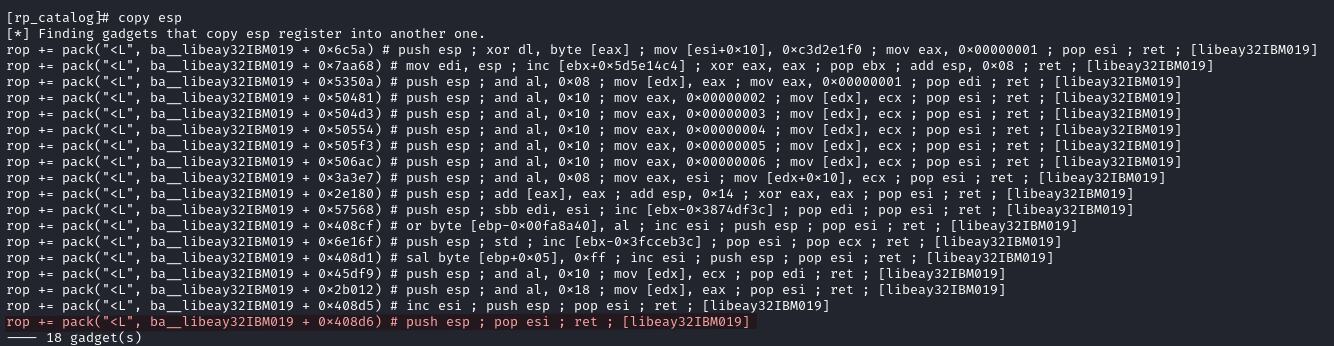
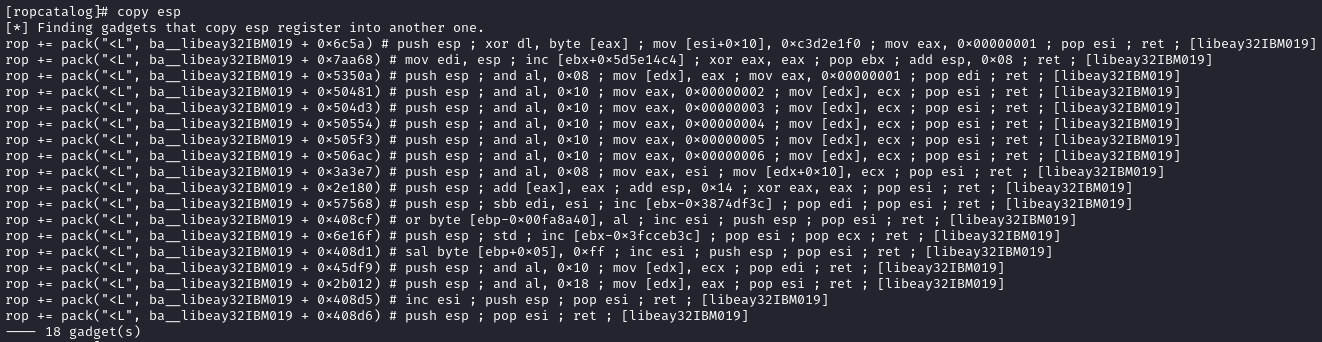
Update

Changed region(s): [[0.0, 0.0292, 1.0, 1.0]]

diff --git a/ropcatalog/console.py b/ropcatalog/console.py
@@ -12,8 +12,8 @@ from prompt_toolkit.history import ThreadedHistory, InMemoryHistory
 from prompt_toolkit.cursor_shapes import CursorShape
 
 # Local library imports
-from rp_catalog.core import gadgets
-from rp_catalog.core import utils
+from ropcatalog.core import gadgets
+from ropcatalog.core import utils
 
 
 class Console:
@@ -63,6 +63,7 @@ class Console:
 
         if args is not None and args.endswith(" /n"):
             args = args.replace(" /n", "")
+            print("[i] Filtering disabled")
             filtering = False
 
         results = self._commands[cmd](args) or []
@@ -91,6 +92,9 @@ class Console:
         print("Available commands:")
         for cmd, func in self._commands.items():
             print(f"  {cmd:<5} - {func.__doc__}")
+
+        print("\nModifiers:")
+        print("  /n   - Disables filtering for bad operations (e.g., jump esp /n).")
 
     def exact_search(self, instructions: str) -> list:
         """Exact search for gadgets (e.g., ? pop eax ; ret)"""
@@ -353,7 +357,8 @@ class Console:
         print()
         while True:
             try:
-                command = session.prompt("[rp_catalog]# ").strip()
+                command = session.prompt("[ropcatalog]# ").strip() or "help"
+
                 results = self.execute(command)
 
                 if results:

diff --git a/ropcatalog/__main__.py b/ropcatalog/__main__.py
@@ -1,7 +1,7 @@
 #!/usr/bin/env python3
 
 # Local library imports
-from rp_catalog import console
+from ropcatalog import console
 
 
 def main() -> None:

diff --git a/README.md b/README.md
@@ -1,5 +1,5 @@
 
-`rp_catalog` is a Python tool designed for parsing and analyzing ROP (Return-Oriented Programming) gadgets extracted from [rp++](https://github.com/0vercl0k/rp) output files. It helps identify, classify, and filter useful ROP gadgets with a primary focus on the x86 architecture.
+`ropcatalog` is a Python tool designed for parsing and analyzing ROP (Return-Oriented Programming) gadgets extracted from [rp++](https://github.com/0vercl0k/rp) output files. It helps identify, classify, and filter useful ROP gadgets with a primary focus on the x86 architecture.
 
 It was built during the [EXP-301 course](https://www.offsec.com/courses/exp-301/), which focuses on exploit development. The tool is specifically tailored and designed for working with x86 ROP chains.
 
@@ -7,21 +7,21 @@ It was built during the [EXP-301 course](https://www.offsec.com/courses/exp-301/
 Designed for simplicity:
 
 ```shell
-pipx install 'git+https://github.com/n3rada/rp_catalog.git'
+pipx install 'git+https://github.com/n3rada/ropcatalog.git'
 ```
 
 Or, without dependency conflicts:
 ```shell
-pip install 'rp_catalog@git+https://github.com/n3rada/rp_catalog.git'
+pip install 'ropcatalog@git+https://github.com/n3rada/ropcatalog.git'
 ```
 
 Then, you can directly use it by calling its name
 
 ```shell
-rp_catalog ~/dump/libeay32IBM019.txt
+ropcatalog ~/dump/libeay32IBM019.txt
 ```
 
-## Examples
+## Usage Examples
 
 Generate the output with `rp++` as follows:
 ```shell
@@ -29,7 +29,7 @@ Generate the output with `rp++` as follows:
 ```
 Then, open your catalog with ASLR considerations (`--offset`) and output unique (`-u`) addresses in a copy-pastable Python format (`-p`):
 ```shell
-rp_catalog ~/dump/libeay32IBM019.txt -b "\x00\x09\x0a\x0b\x0c\x0d\x20" -u -p -o
+ropcatalog ~/dump/libeay32IBM019.txt -b "\x00\x09\x0a\x0b\x0c\x0d\x20" -u -p -o
 ```
 
 ```txt
@@ -44,15 +44,42 @@ rp_catalog ~/dump/libeay32IBM019.txt -b "\x00\x09\x0a\x0b\x0c\x0d\x20" -u -p -o
 [+] Total of 57700 gadgets loaded
 [+] Filtered to 24974 unique gadgets based on instructions.
 
-[catalog]#
+[ropcatalog]#
+```
+
+If you forgot how to browse your own catalog, use `help`:
+```shell
+[ropcatalog]# help
+Available commands:
+  exit  - Exit
+  clear - Clear the terminal
+  list  - List all gadgets
+  help  - None
+  ?     - Exact search for gadgets (e.g., ? pop eax ; ret)
+  /     - Partial search for gadgets (e.g., / pop)
+  copy  - This method finds gadgets that copy the value of a register (e.g., eax) to another register with modifcation of copied register allowed.
+  save  - This method finds gadgets that copy the value of a register (e.g., eax) to another register without modifying either register afterward.
+  inc   - Find gadgets that increment a register (e.g., inc eax)
+  dec   - Find gadgets that decrement a register (e.g., dec eax)
+  deref - Find gadgets that dereference a register (e.g., mov eax, [eax])
+  re    - Search for gadgets using a regular expression pattern (e.g., re mov eax, .*)
+  swap  - Find gadgets that swap given register with any other register (e.g., xchg eax, <reg>)
+  zero  - Find gadgets that zero the given register
+  ppr   - Find gadgets with pop-pop-ret sequences (e.g., pop eax ; pop ebx ; ret)
+  jump  - Find jump-related gadgets (e.g., jmp esp, call esp, jmp [esp+0x10], etc.)
+  pop   - This method finds gadgets that load a value from the stack into a specified register, typically through the pop instruction.
+
+Modifiers:
+  /n   - Disables filtering for bad operations (e.g., jump esp /n).
+
 ```
 
 Now, you can search for any gadget that copies the stack pointer (`ESP`) register to another register:
 ![copy_esp_ASLR](./images/copy_esp_ASLR.png)
 
 
-Without offset considerations, you can search inside your module for gadgets that dereference `EAX`:
-![deref_eax](./images/deref_eax.png)
+Without offset considerations, you can search inside any module for gadgets that dereference `ESI`:
+![deref_esi](./images/deref_esi.png)
 
 
 Without using the Python copy-paste format, you can search for gadgets that zero `EAX`:
